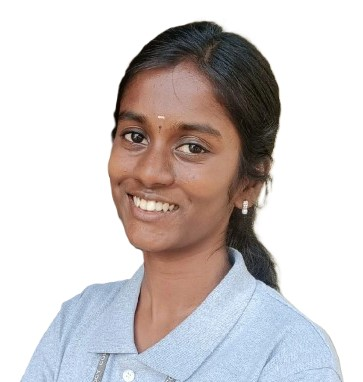
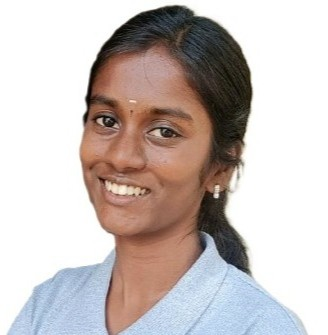
Updated Our team section

diff --git a/src/components/sections/about/OurTeam.tsx b/src/components/sections/about/OurTeam.tsx
@@ -19,9 +19,14 @@ const teamMembers = [
     image: "/assets/Profile pics/velan.png",
   },
   {
-    name: "Rathnasundara Devi",
-    role: "Head-Administration",
+    name: "Rathnasundara Devi S",
+    role: "Head - Administration",
     image: "/assets/Profile pics/rathna.png",
+  },
+  {
+    name: "Amit Durgaprasad",
+    role: "Consulting Partner",
+    image: "/assets/Profile pics/Amit.png",
   },
   {
     name: "Parthiban",
@@ -34,23 +39,23 @@ const teamMembers = [
     image: "/assets/Profile pics/Sathyanarayanan.jpeg",
   },
   {
-    name: "Vishnu A",
-    role: "Manager, Innovation & Academic Partnerships",
+    name: "Dr. Vishnu A",
+    role: "Engagement Lead",
     image: "/assets/Profile pics/Vishnu.jpeg",
   },
   {
     name: "Sourish Ghosh",
-    role: "Customer Success Manager",
+    role: "Business Growth Manager",
     image: "/assets/Profile pics/Sourish_Ghosh.png",
   },
   {
     name: "Maharshi Vidhyarthi",
-    role: "Customer Success Manager",
+    role: "Engagement Lead",
     image: "/assets/Profile pics/maharishi.jpg",
   },
   {
-    name: "Anandapadmanaban K (AK)",
-    role: "AI solutions consultant",
+    name: "K Anandpadmanaban",
+    role: "Engagement Lead",
     image: "/assets/Profile pics/Anand.png",
   },
   {
@@ -59,14 +64,39 @@ const teamMembers = [
     image: "/assets/Profile pics/Rakesh.png",
   },
   {
+    name: "Ravin",
+    role: "AI Engineer (SRE)",
+    image: "/assets/Profile pics/Ravin.png",
+  },
+  {
+    name: "Surya",
+    role: "AI Engineer",
+    image: "/assets/Profile pics/Surya_Profile_Photo.jpg",
+  },
+  {
     name: "Pravinkumar Raja",
     role: "Tech Lead - Workflow Automation",
     image: "/assets/Profile pics/Pravin.jpeg",
   },
   {
-    name: "Ravin",
-    role: "AI Engineer (SRE)",
-    image: "/assets/Profile pics/Ravin.png",
+    name: "Varshiga Mohankumar",
+    role: "Software Developer",
+    image: "/assets/Profile pics/Varshiga.jpg",
+  },
+  {
+    name: "Lakshmi Prabha",
+    role: "Software Developer",
+    image: "/assets/Profile pics/Laxmi Prabha.png",
+  },
+  {
+    name: "Jashera S",
+    role: "Software Developer",
+    image: "/assets/Profile pics/Jashera_1.jpg",
+  },
+  {
+    name: "Visalini K",
+    role: "Software Developer",
+    image: "/assets/Profile pics/Vishalini.png",
   },
 ];
 
